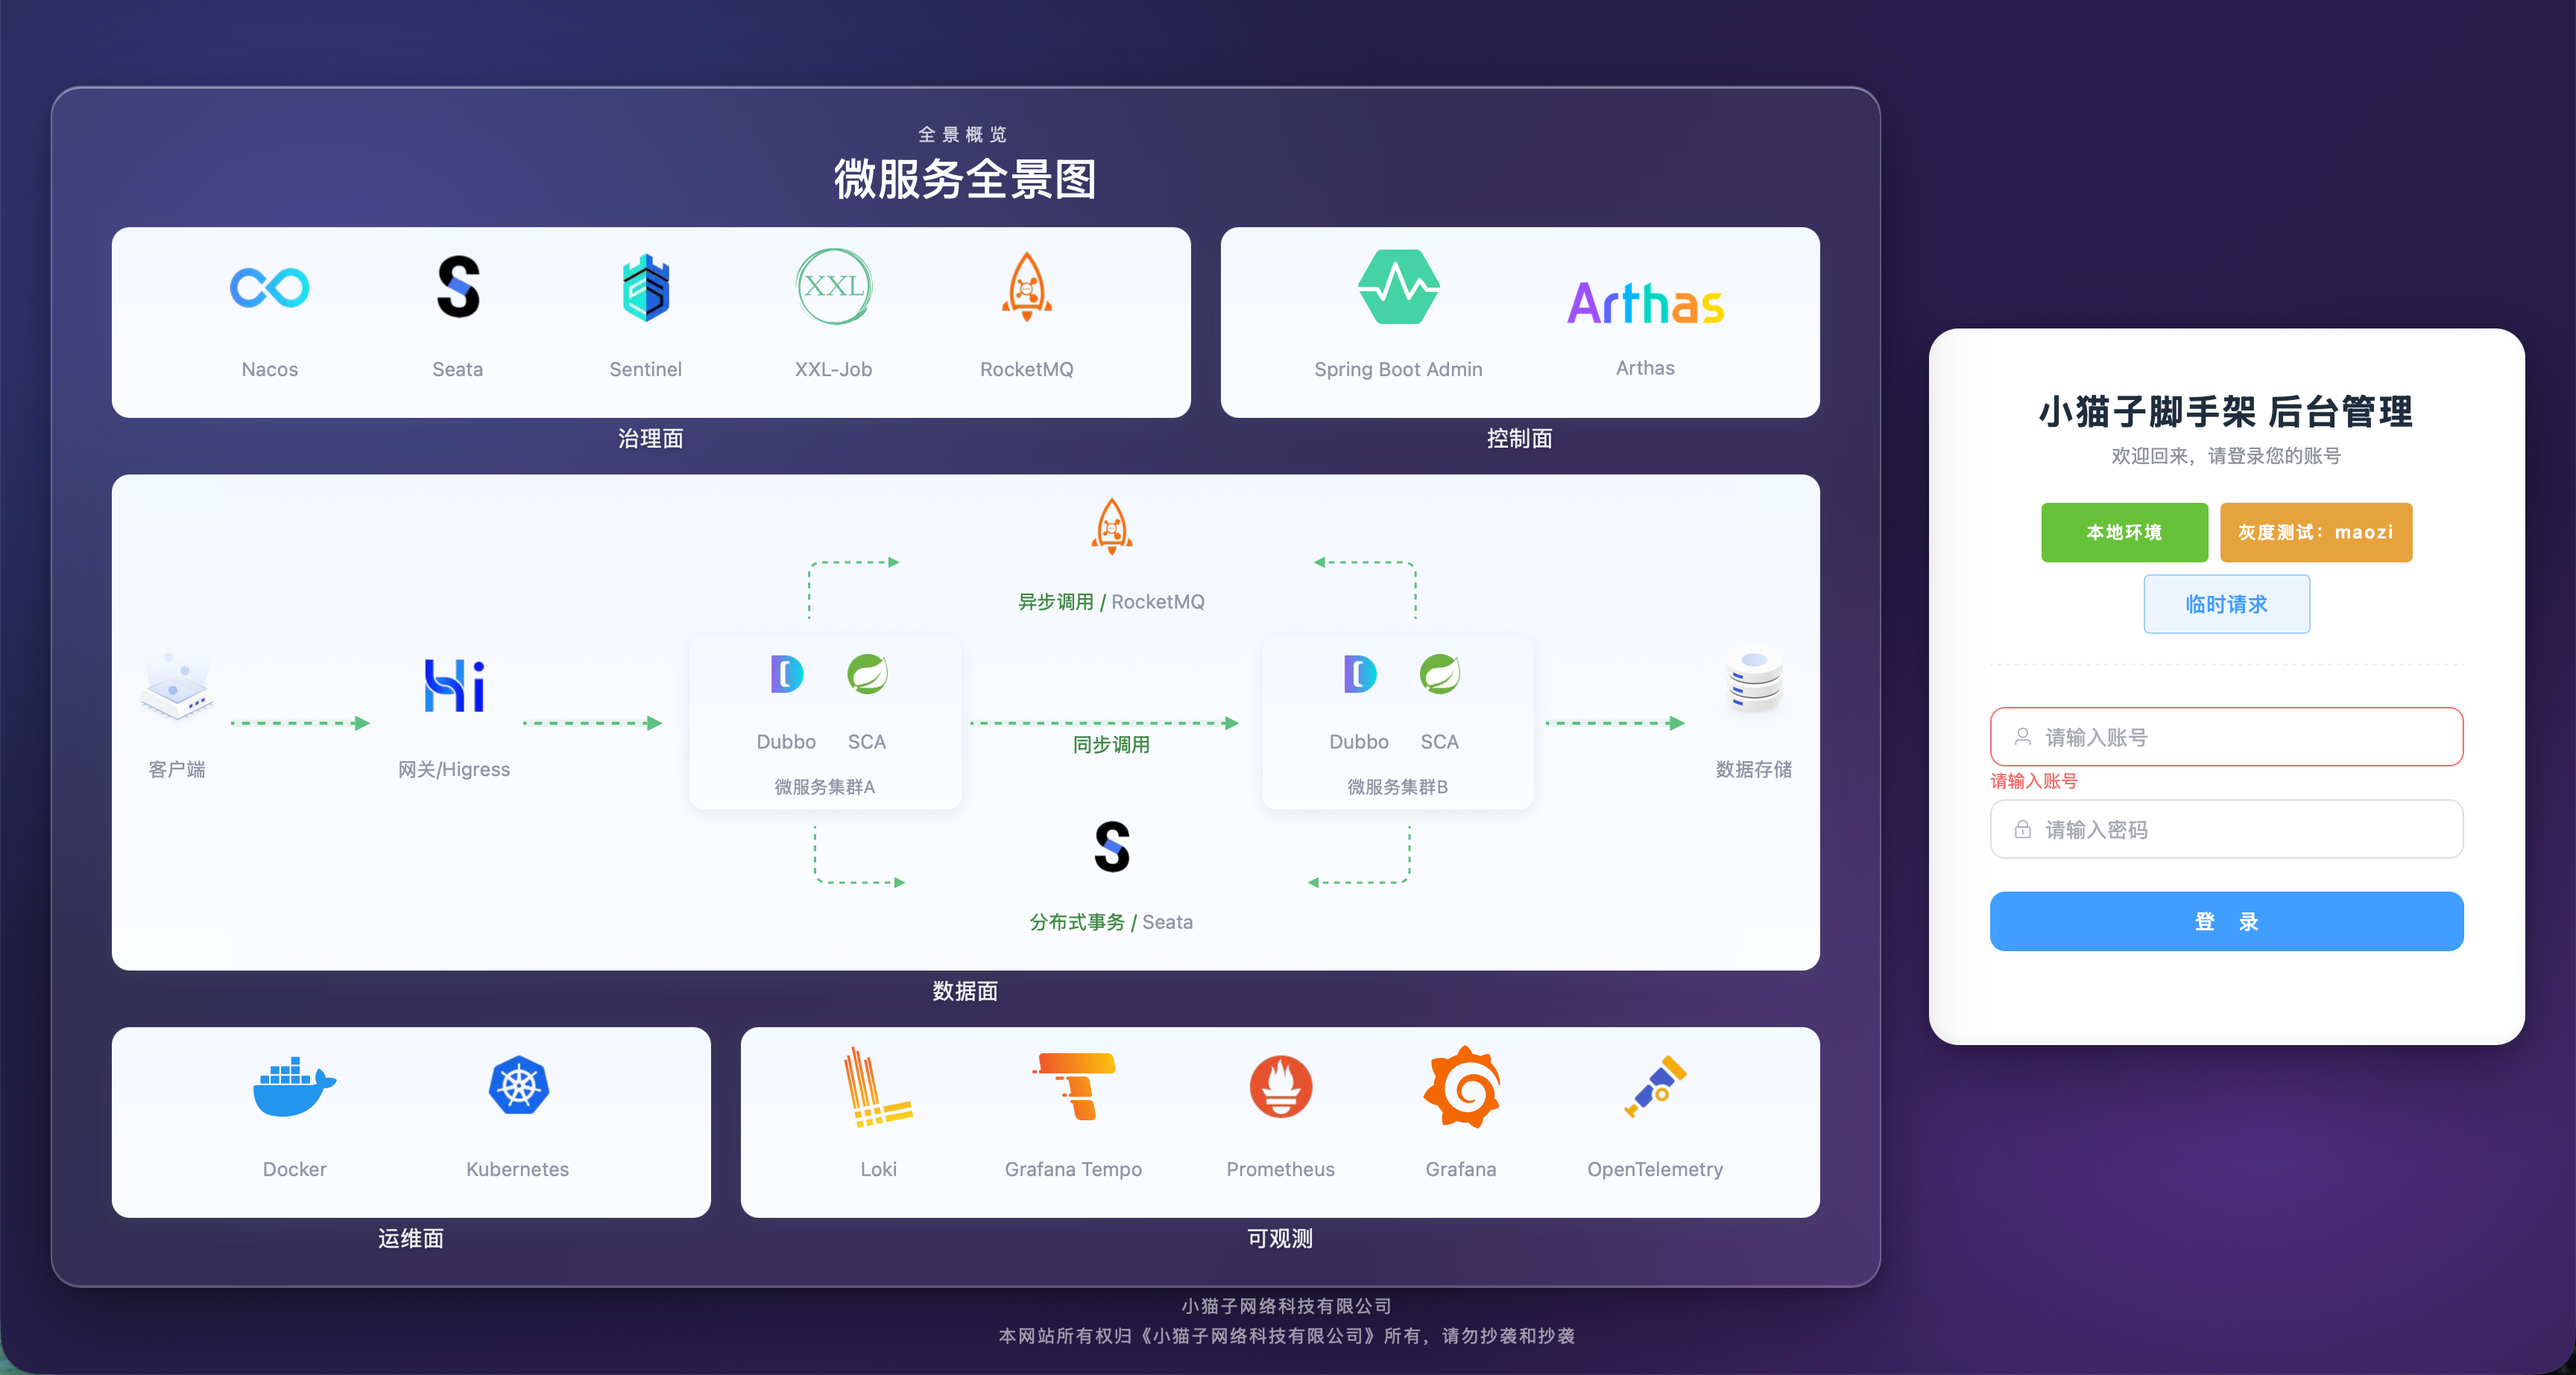
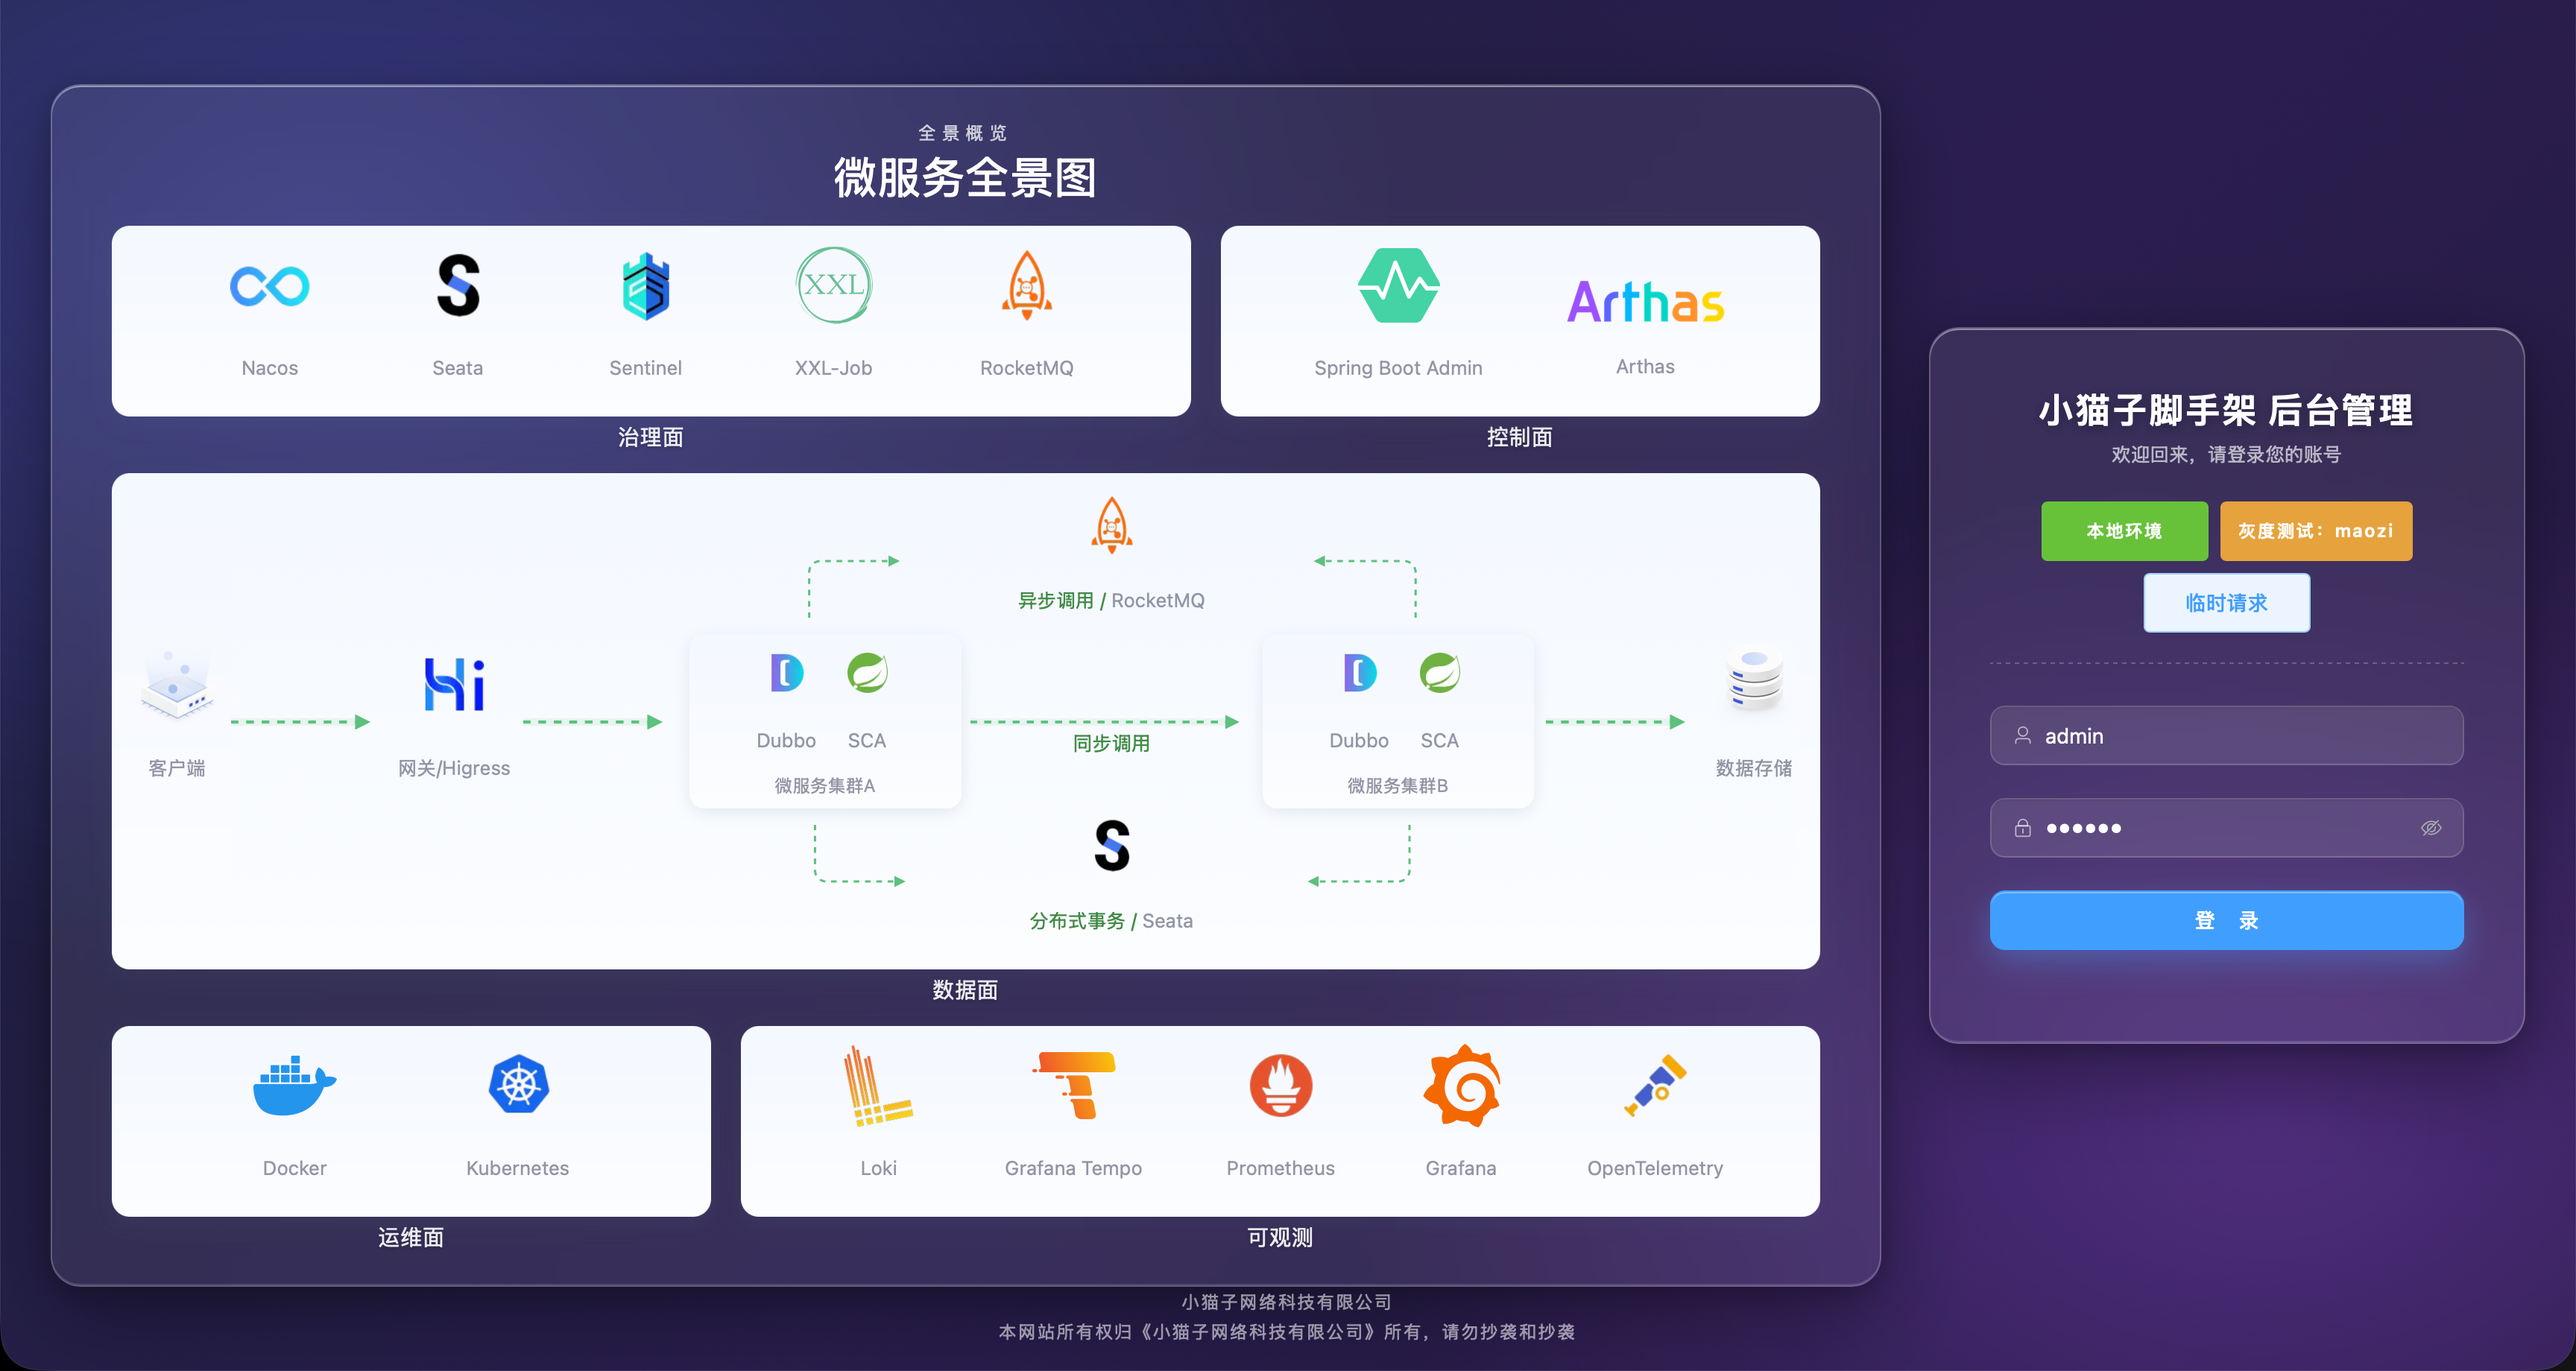
feat(*): 后台页面调整
- 后台页面调整

diff --git a/maozi-cloud-admin/src/views/login/index.vue b/maozi-cloud-admin/src/views/login/index.vue
@@ -172,19 +172,33 @@ async function handleLogin(formEl?: FormInstance) {
   backdrop-filter: blur(18px);
 }
 
-/** 右侧登录卡片：与左侧同款多层投影，呈现悬浮立体感 */
+/** 右侧登录卡片：近透明玻璃底 + 描边 + 多层投影，呈现悬浮立体感 */
 .login-card {
   flex-shrink: 0;
   width: 400px;
   padding: 40px;
-  background: #fff;
-  border: 1px solid rgba(255, 255, 255, 0.6);
+  background: rgba(255, 255, 255, 0.08);
+  border: 1px solid rgba(255, 255, 255, 0.22);
   border-radius: 20px;
   box-shadow:
     0 24px 60px rgb(0 0 0 / 35%),
     0 4px 16px rgb(0 0 0 / 22%),
-    inset 0 1px 0 rgb(255 255 255 / 90%),
-    inset 0 -2px 6px rgb(31 45 61 / 6%);
+    inset 0 1px 0 rgb(255 255 255 / 45%),
+    inset 0 -1px 0 rgb(255 255 255 / 12%);
+  backdrop-filter: blur(18px);
+  transition:
+    transform 0.3s ease,
+    box-shadow 0.3s ease;
+}
+
+/** 悬浮时轻微上抬，强化 3D 浮起效果 */
+.login-card:hover {
+  transform: translateY(-4px);
+  box-shadow:
+    0 32px 72px rgb(0 0 0 / 42%),
+    0 6px 20px rgb(0 0 0 / 26%),
+    inset 0 1px 0 rgb(255 255 255 / 50%),
+    inset 0 -1px 0 rgb(255 255 255 / 14%);
 }
 
 /** 窄屏隐藏左侧品牌区，登录表单回退居中 */
@@ -208,13 +222,14 @@ async function handleLogin(formEl?: FormInstance) {
   font-size: 24px;
   font-weight: 700;
   letter-spacing: 1px;
-  color: #1f2d3d;
+  color: #fff;
+  text-shadow: 0 2px 8px rgb(0 0 0 / 30%);
 }
 
 .login-subtitle {
   margin-top: 8px;
   font-size: 13px;
-  color: #909399;
+  color: rgba(255, 255, 255, 0.65);
 }
 
 .login-badges {
@@ -226,7 +241,7 @@ async function handleLogin(formEl?: FormInstance) {
   justify-content: center;
   margin-bottom: 28px;
   padding-bottom: 20px;
-  border-bottom: 1px dashed #ebeef5;
+  border-bottom: 1px dashed rgba(255, 255, 255, 0.22);
 }
 
 /** 登录卡片内容区仅 320px，覆写顶栏的 132px 统一宽度，标签与按钮统一为 112px */
@@ -255,15 +270,43 @@ async function handleLogin(formEl?: FormInstance) {
   line-height: 20px;
 }
 
-/** 输入框与登录按钮统一圆角 */
+/** 输入框与登录按钮统一圆角；输入框改玻璃底并带内凹立体感 */
 .login-card :deep(.el-input__wrapper) {
   border-radius: 10px;
+  background: rgba(255, 255, 255, 0.1);
+  box-shadow:
+    inset 0 1px 2px rgb(0 0 0 / 18%),
+    inset 0 0 0 1px rgba(255, 255, 255, 0.18);
+}
+
+.login-card :deep(.el-input__wrapper.is-focus) {
+  box-shadow:
+    inset 0 1px 2px rgb(0 0 0 / 18%),
+    inset 0 0 0 1px rgb(64 158 255 / 70%);
+}
+
+.login-card :deep(.el-input__inner) {
+  color: #fff;
+}
+
+.login-card :deep(.el-input__inner::placeholder) {
+  color: rgba(255, 255, 255, 0.45);
+}
+
+.login-card :deep(.el-input__prefix),
+.login-card :deep(.el-input__suffix) {
+  color: rgba(255, 255, 255, 0.6);
 }
 
 .login-btn {
   width: 100%;
   border-radius: 10px;
   letter-spacing: 6px;
+
+  /** 按钮投影发光，强化立体浮起感 */
+  box-shadow:
+    0 8px 20px rgb(64 158 255 / 35%),
+    inset 0 1px 0 rgb(255 255 255 / 30%);
 
   /** 抵消末字后多出的字距，保证文字真正居中 */
   text-indent: 6px;
